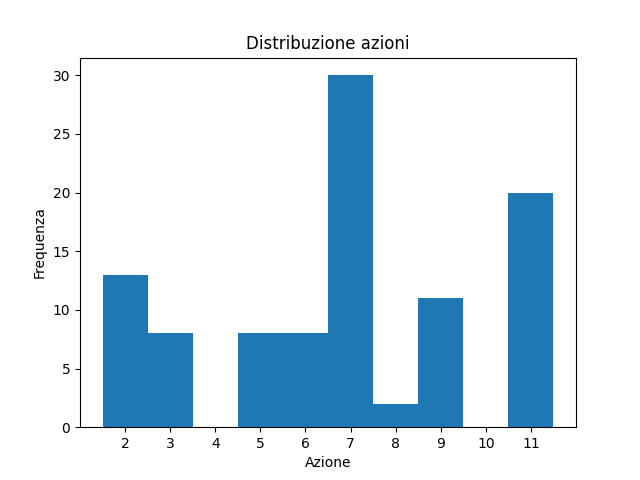
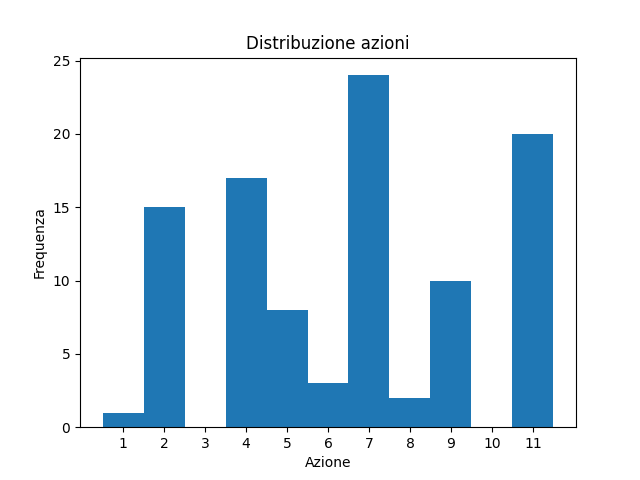
gu

diff --git a/V2/evaluation.py b/V2/evaluation.py
@@ -13,6 +13,7 @@ def evaluate_current_model(model, args, save_plot: bool = True):
     sparsity_start = 1.0 - state.float().mean().item()
 
     while True:
+        state = game_eval.state.clone()
         action = mcts_eval.search(state)          
         print(action)
         state  = game_eval.do_action(action)      
